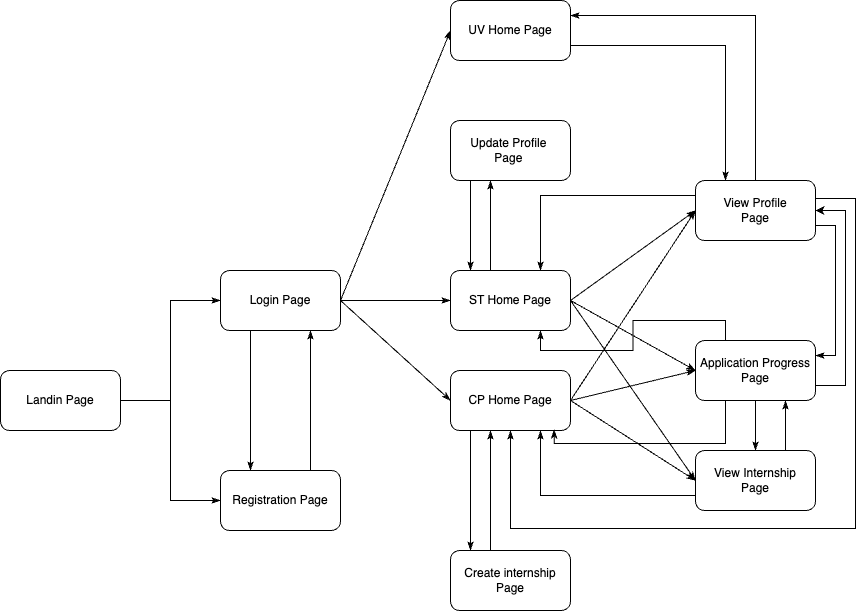
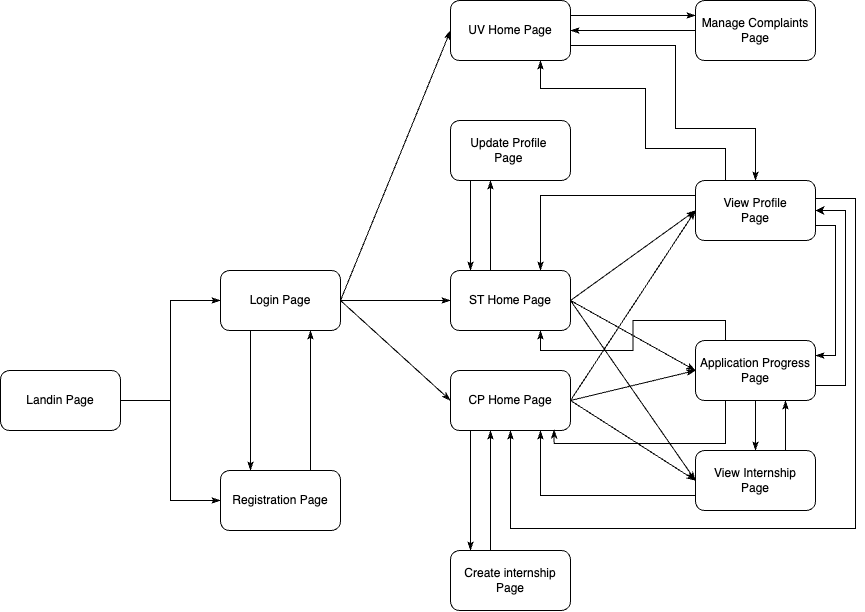
Updates from Overleaf

diff --git a/DD/LaTeX/Chapters/3_User_Interface_Design.tex b/DD/LaTeX/Chapters/3_User_Interface_Design.tex
@@ -139,7 +139,7 @@ The "View Internship" page displays all the general and specific information of 
     \end{center}   
 \end{figure}
 
-The "Application Progress" page allows both Students (ST) and Companies (CP) to track the status of a specific internship application for a student. For a Student, this page provides a clear visualization of the progress of their internship journey, categorized into four distinct phases:
+The "Application Progress" page allows both Students and Companies to track the status of a specific internship for a student. For a Student, this page provides a clear visualization of the progress of their internship journey, categorized into four distinct phases:
 
 \begin{itemize}
     \item \textbf{Open}: This status represents internships that are still in the initial phase, where applications have been submitted but the selection process has not yet begun.
@@ -148,6 +148,30 @@ The "Application Progress" page allows both Students (ST) and Companies (CP) to 
     \item \textbf{Closed}: The final phase, marking the completion of the internship. At this stage, students can provide feedback regarding their experience.
 \end{itemize}
 This page provides an intuitive and structured way for users to understand the progress of each application at a glance.
+
+\subsection*{UI\cui . University HomePage}
+
+\begin{figure}[H]
+    \begin{center}
+        \includegraphics[width=0.7\linewidth]{Interfaces_UI/UVHomePage.png}
+        \caption{University Homepage.}
+        \label{fig:university_homepage}%
+    \end{center}   
+\end{figure}
+
+From the Login Page, the UV will be redirected to the University Homepage, where the status of all student's internship can be monitored. After clicking on a view profile for a specific student, the UV can reach the Application Progress page through the View Profile Page. Here it can view the full journey between the Student and it's internship. Also, when a complaint is made, a notification will be received through the notification icon in the header, or the UV can check if there are any complaints on the Manage Complaint Page by clicking on the button placed in the right-side menu. 
+
+\subsection*{UI\cui . Manage Complaints Page}
+
+\begin{figure}[H]
+    \begin{center}
+        \includegraphics[width=0.7\linewidth]{Interfaces_UI/ManageComplaintsPage.png}
+        \caption{Manage Complaints Page.}
+        \label{fig:manage_complaints_page}%
+    \end{center}   
+\end{figure}
+
+From the University Homepage, the UV can reach this Manage Complaints Page, where all the filed complaints are listed there. When a new complaints is made, the UV can ask the complaint author to open a chat to have a better understanding on the situation. After that, the company can decide whether to Mark the complaint as solved or Close the internship.
 
 
 
